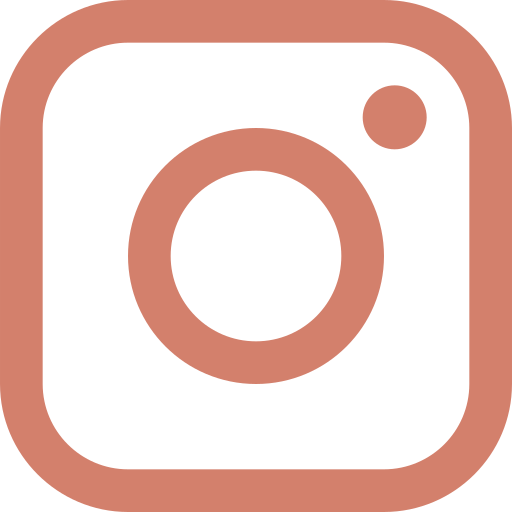
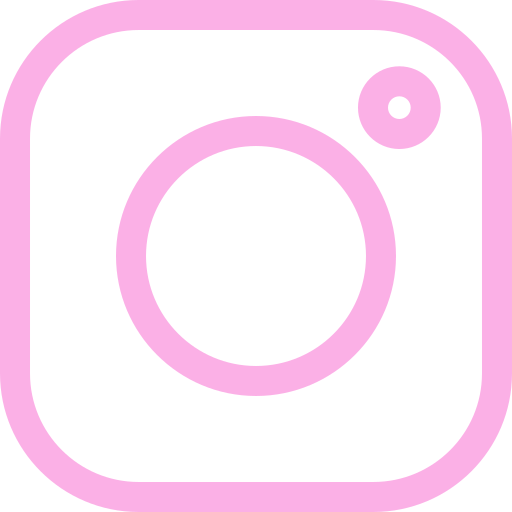
se modifica color de los iconos y letras

diff --git a/css/style.css b/css/style.css
@@ -40,9 +40,9 @@ h2 {
   font-size: 2rem;
 }
 .seconds {
-  color: #fc9c85; /* Código de color para el rosa */
+  color: #fbb0e6; /* Código de color para el rosa */
 }
 /* confirmar asistencia */
 .text-rose{
-    color: #fc9c85;
+    color: #fbb0e6;
 }
